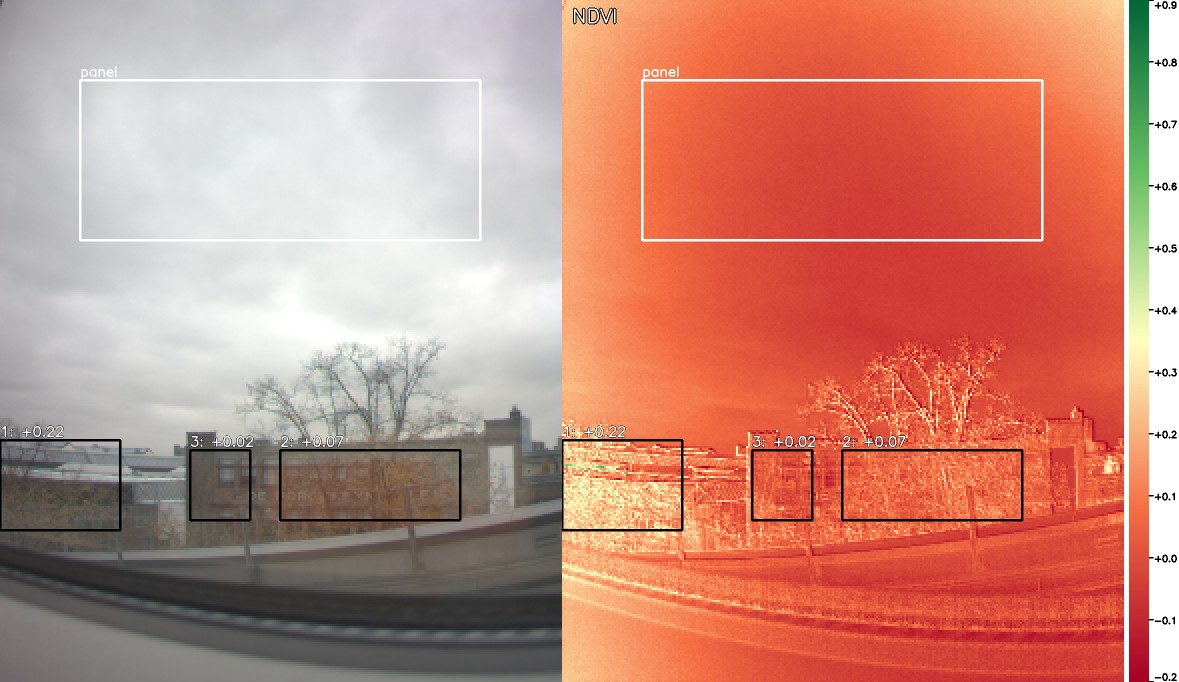
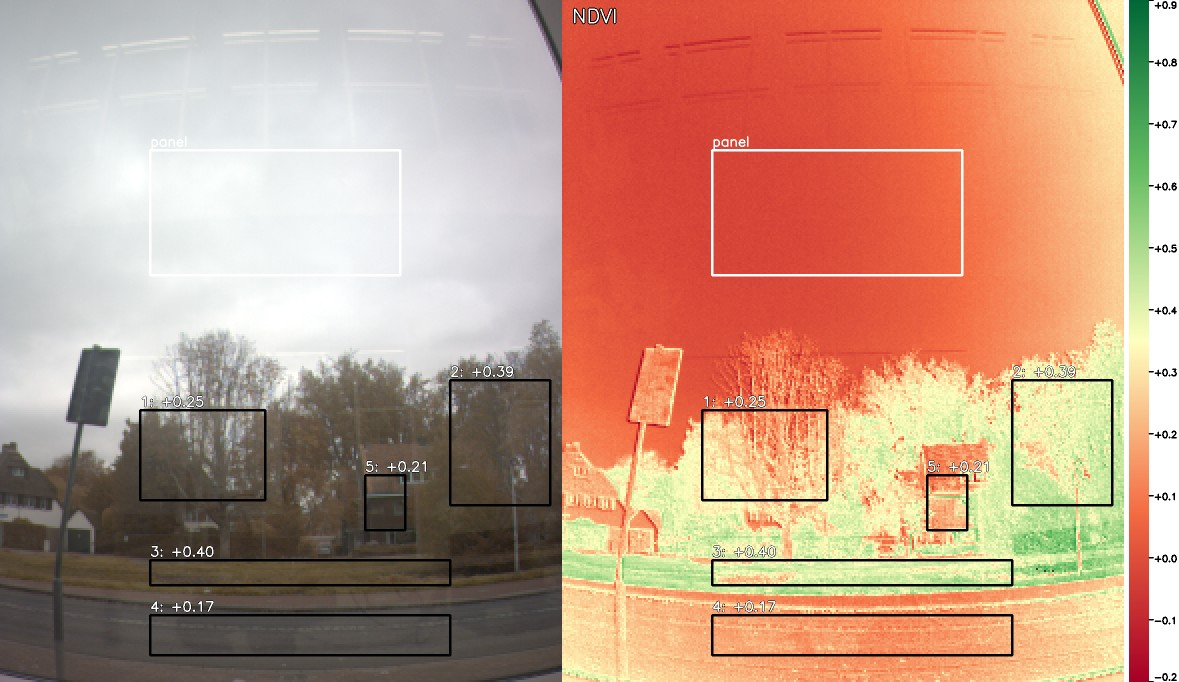
README: new NDVI example (trees, grass, road)

diff --git a/README.md b/README.md
@@ -415,8 +415,9 @@ whole image and every area.
 ![NDVI demonstration](docs/example_ndvi.jpg)
 
 *Demonstration only: the overcast sky stands in for the reference panel, so these are relative
-values, not true NDVI. Area 1 (green vegetation) +0.22, area 2 (autumn leaves) +0.07, area 3
-(building) +0.02.*
+values, not true NDVI, and the image was taken through window glass. Median NDVI: area 1 (tree,
+partly bare) +0.25, area 2 (tree in leaf) +0.39, area 3 (grass verge) +0.40, area 4 (road)
++0.17, area 5 (house) +0.21.*
 
 Tips for reliable values:
 
